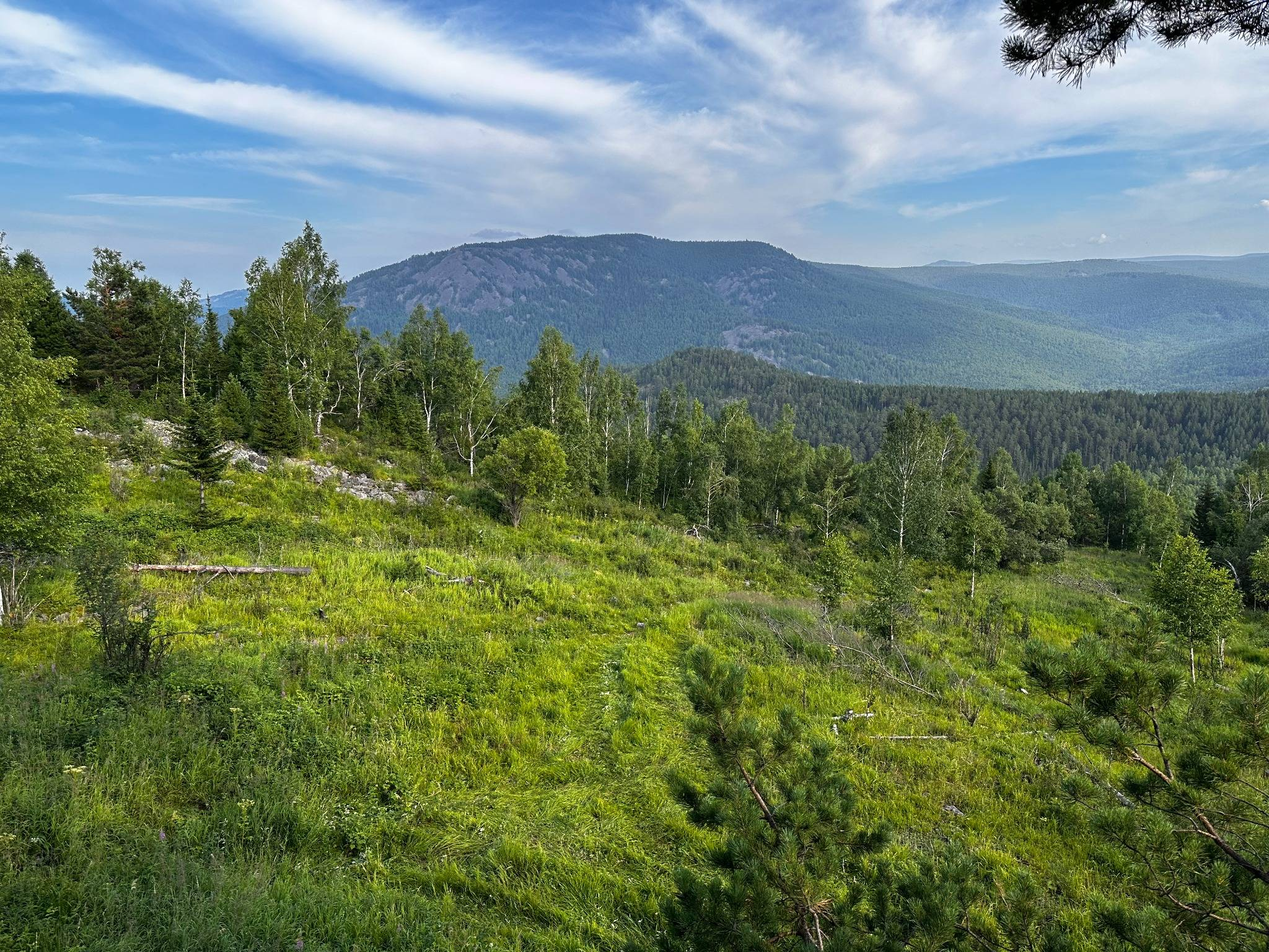
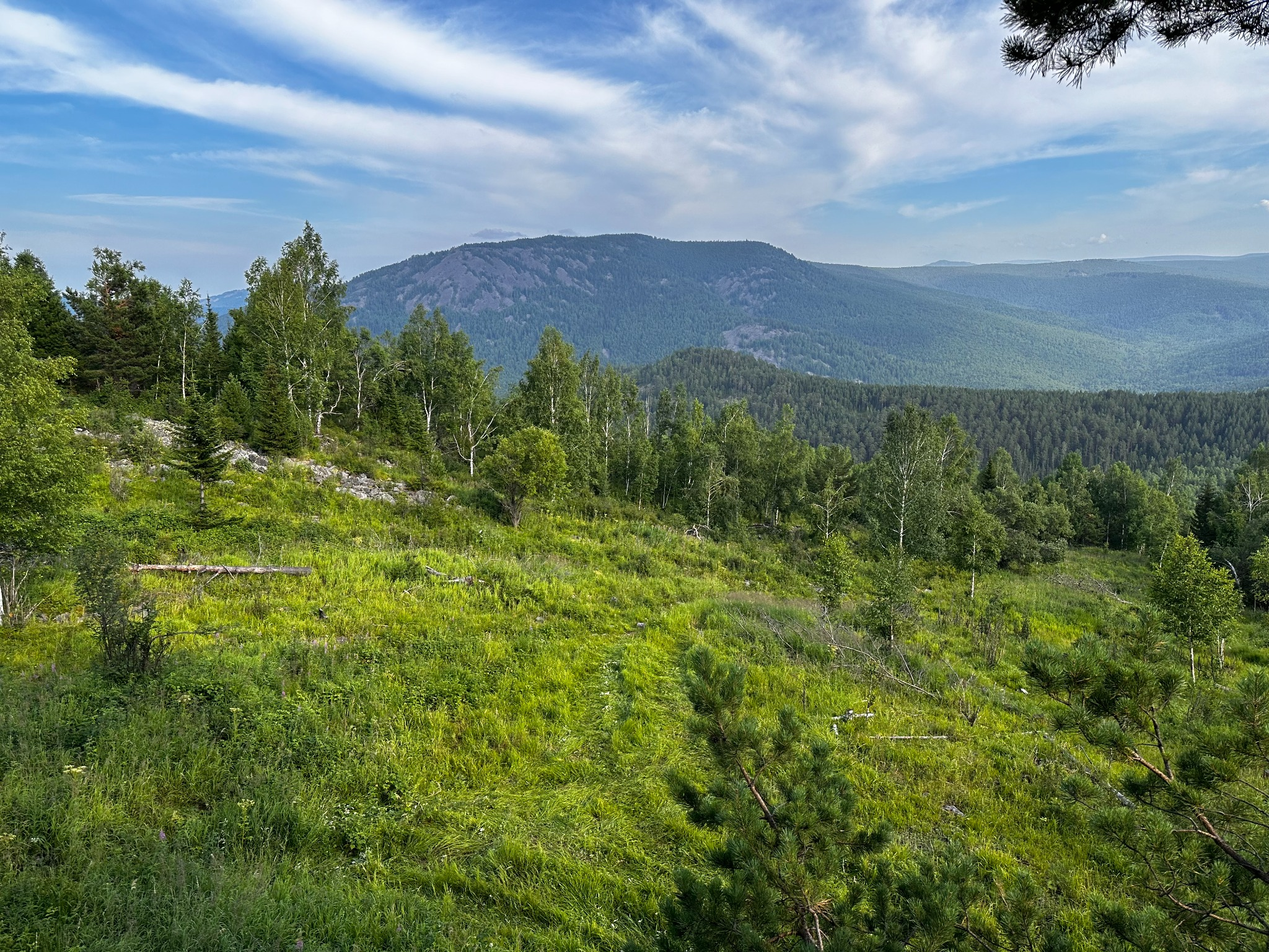
Add files via upload

Changed region(s): [[0.3125, 0.7188, 0.3438, 0.75]]

diff --git a/main.js b/main.js
@@ -1,4 +1,14 @@
 
-function setLanguage(lang) {
-    alert("Язык переключён на: " + lang + " (функциональность будет добавлена)");
-}
+document.addEventListener("DOMContentLoaded", function () {
+    document.querySelectorAll("nav a").forEach(link => {
+        link.addEventListener("click", function (e) {
+            e.preventDefault();
+            const target = this.getAttribute("href").substring(1);
+
+            document.querySelectorAll("section").forEach(section => {
+                section.classList.remove("active");
+            });
+            document.getElementById(target).classList.add("active");
+        });
+    });
+});
